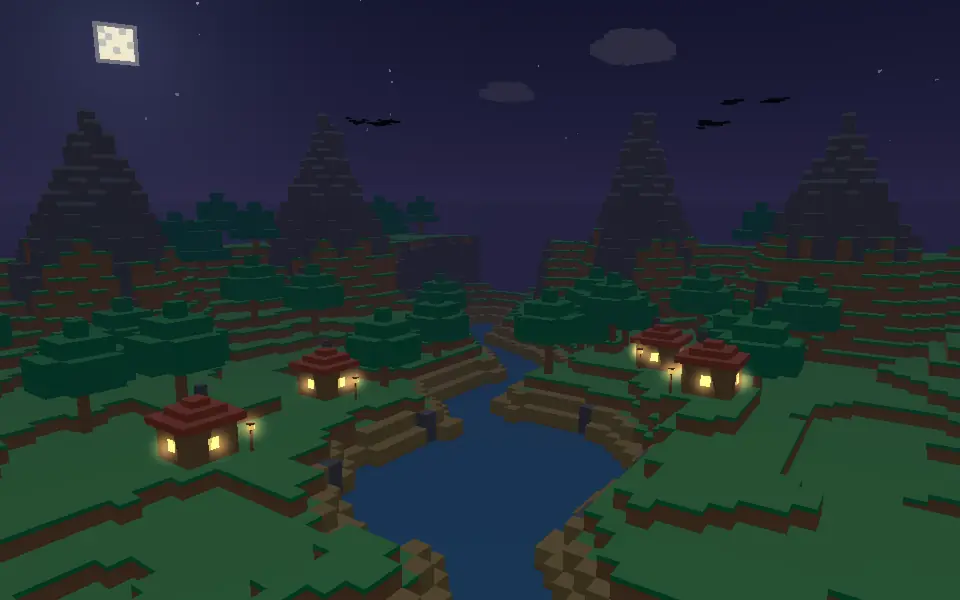
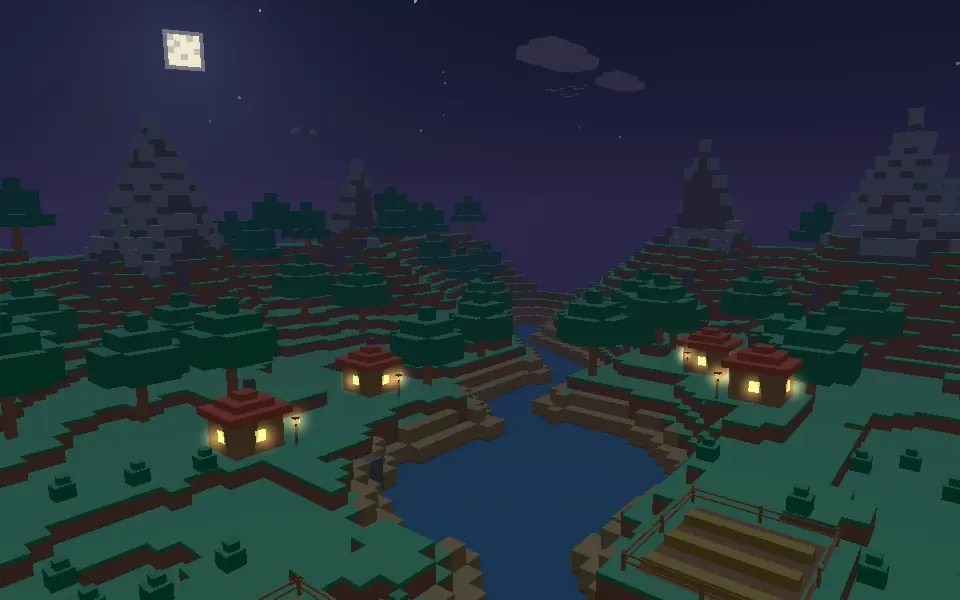
Blocks: Block Valley's day flocks in a soft blue-grey, thinner
By day the flocks read as dark grey blobs. Each bird is now a thin chevron a little darker than
the sky around it, and its wings are half as thick.

Claude-Session: https://claude.ai/code/session_01BLfTFn7RkTLtbpWjFPCzxo

diff --git a/packages/blocks/wallpapers/valley/dist/main.js b/packages/blocks/wallpapers/valley/dist/main.js
@@ -136,4 +136,4 @@ void main() {
   float r = dot(q, q);
   if (r > 1.0) discard;
   o = vec4(u_colour * exp(-r * 3.5) * (1.0 - r) * 0.6, 1.0);
-}`,lt=class{f=[];info=[];idx=[];get vertices(){return this.f.length/3}quad(e,t,r,n){let o=this.vertices;this.f.push(...e);for(let a=0;a<4;a++)this.info.push(t,r,j(Math.round(n),0,255),0);this.idx.push(o,o+1,o+2,o,o+2,o+3)}box(e,t,r,n,o,a,i,u=o,f=()=>!1){f(0)||this.quad([e,o,a,n,o,a,n,o,r,e,o,r],i,0,u),f(1)||this.quad([n,t,a,n,t,r,n,o,r,n,o,a],i,1,u),f(2)||this.quad([e,t,r,e,t,a,e,o,a,e,o,r],i,2,u),f(3)||this.quad([e,t,a,n,t,a,n,o,a,e,o,a],i,3,u),f(4)||this.quad([n,t,r,e,t,r,e,o,r,n,o,r],i,4,u),f(5)||this.quad([e,t,r,n,t,r,n,t,a,e,t,a],i,5,u)}pack(){let e=this.vertices,t=new ArrayBuffer(e*Q*4),r=new Float32Array(t),n=new Uint8Array(t);for(let o=0;o<e;o++){r[o*Q]=this.f[o*3],r[o*Q+1]=this.f[o*3+1],r[o*Q+2]=this.f[o*3+2];for(let a=0;a<4;a++)n[o*Q*4+12+a]=this.info[o*4+a]}return t}};function Tt(s,e){let t=[],r=s?[[2,-2],[1,-1],[1,0],[0,1]]:[[2,-1],[2,0],[1,1],[0,2]];for(let[n,o]of r)for(let a=-n;a<=n;a++)for(let i=-n;i<=n;i++)n>=2&&Math.abs(a)===n&&Math.abs(i)===n||t.push([a,e+o,i]);return t}function Re(s,e=!1){let t=Ut(700+s),r=e?4:7+Math.floor(t()*6),n=e?3:4+Math.floor(t()*4),o=[];for(let a=0;a<n;a++)for(let i=0;i<r;i++){let u=((i+.5-r/2)/(r/2))**2+((a+.5-n/2)/(n/2))**2;u>1.05+t()*.3||(o.push([i-r/2,0,a-n/2]),u<.45+t()*.2&&o.push([i-r/2,1,a-n/2]))}return o}var dt=class{constructor(e,t){this.canvas=e;let r=e.getContext("webgl2",{antialias:!1,alpha:!1,depth:!1,powerPreference:"low-power"});if(!r)throw new Error("WebGL2 unavailable");this.gl=r,e.addEventListener("webglcontextlost",n=>{n.preventDefault(),this.lost=!0,t()}),this.landProg=Lt(r,xe,ve),this.skyProg=Lt(r,Me,we),this.glowProg=Lt(r,ye,_e);for(let n of["u_vp","u_offset","u_scale","u_cols","u_eye","u_fog","u_fogDistance","u_time","u_light","u_glint"])this.u[n]=r.getUniformLocation(this.landProg,n);for(let n of["u_vp","u_size","u_colour"])this.g[n]=r.getUniformLocation(this.glowProg,n);for(let n of["u_forward","u_right","u_up","u_tan","u_zenith","u_horizon","u_fog","u_sun","u_disc","u_glow","u_glowAlpha","u_stars"])this.s[n]=r.getUniformLocation(this.skyProg,n);this.skyVao=r.createVertexArray(),this.dyn=this.drawn(new ArrayBuffer(0),new Uint32Array(0),r.DYNAMIC_DRAW),this.fbo=r.createFramebuffer(),this.colour=r.createRenderbuffer(),this.depth=r.createRenderbuffer()}canvas;gl;lost=!1;land=null;glows=null;glowProg;g={};clouds=null;dyn;landProg;skyProg;skyVao;u={};s={};fbo;colour;depth;size={w:0,h:0,W:0,H:0};palette=null;cols=new Float32Array(it*9);drawn(e,t,r){let n=this.gl,o=n.createVertexArray();n.bindVertexArray(o);let a=n.createBuffer();n.bindBuffer(n.ARRAY_BUFFER,a),n.bufferData(n.ARRAY_BUFFER,e,r),n.enableVertexAttribArray(0),n.vertexAttribPointer(0,3,n.FLOAT,!1,Q*4,0),n.enableVertexAttribArray(1),n.vertexAttribIPointer(1,4,n.UNSIGNED_BYTE,Q*4,12);let i=n.createBuffer();return n.bindBuffer(n.ELEMENT_ARRAY_BUFFER,i),n.bufferData(n.ELEMENT_ARRAY_BUFFER,t,r),n.bindVertexArray(null),{vao:o,vbo:a,ibo:i,count:t.length}}build(e){let t=new lt,r=[],n=[],o=(m,l)=>O(m,l)?e.height[S(m,l)]:-1,a=new Map;for(let m of e.trees){let l=Math.floor(m.j/T)*64+Math.floor(m.i/T);a.set(l,[...a.get(l)??[],m])}for(let m=0;m<E/T;m++)for(let l=0;l<E/T;l++){let b=t.idx.length,g=1/0,v=0;for(let c=m*T;c<(m+1)*T;c++)for(let p=l*T;p<(l+1)*T;p++){let M=o(p,c),y=e.top[S(p,c)];g=Math.min(g,M),v=Math.max(v,M+8),t.quad([p,M,c+1,p+1,M,c+1,p+1,M,c,p,M,c],y,0,M);let k=e.water[S(p,c)];k&&t.quad([p,k-.12,c+1,p+1,k-.12,c+1,p+1,k-.12,c,p,k-.12,c],x.Water,0,k);let R=[[1,0,1,[p+1,0,c+1,p+1,0,c,p+1,1,c,p+1,1,c+1]],[-1,0,2,[p,0,c,p,0,c+1,p,1,c+1,p,1,c]],[0,1,3,[p,0,c+1,p+1,0,c+1,p+1,1,c+1,p,1,c+1]],[0,-1,4,[p+1,0,c,p,0,c,p,1,c,p+1,1,c]]],F=(C,V,B)=>{let _=C.slice();for(let w=1;w<12;w+=3)_[w]=_[w]===0?V:B;return _};for(let[C,V,B,_]of R){let w=o(p+C,c+V);if(w<0)continue;w<M&&t.quad(F(_,w,M),y,B,M);let A=e.water[S(p+C,c+V)];if(k&&A<k){let z=Math.max(w,A?A-.12:0,M);z<k-.12&&t.quad(F(_,z,k-.12),x.Water,B,k)}}}for(let c of a.get(m*64+l)??[]){let p=o(c.i,c.j),M=Tt(c.pine,c.trunk),y=new Set(M.map(([R,F,C])=>`${R},${F},${C}`));for(let R=0;R<c.trunk;R++)y.add(`0,${R},0`);let k=(R,F,C)=>V=>{let[B,_,w]=[[0,1,0],[1,0,0],[-1,0,0],[0,0,1],[0,0,-1],[0,-1,0]][V];return y.has(`${R+B},${F+_},${C+w}`)};for(let R=0;R<c.trunk;R++)t.box(c.i+.25,p+R,c.j+.25,c.i+.75,p+R+1,c.j+.75,x.Wood,p+R+1,F=>F===5||F===0&&y.has(`0,${R+1},0`));for(let[R,F,C]of M)t.box(c.i+R,p+F,c.j+C,c.i+R+1,p+F+1,c.j+C+1,c.pine?x.Pine:x.Leaves,p+F+1,k(R,F,C));v=Math.max(v,p+c.trunk+3)}for(let c of e.bushes){if(Math.floor(c.i/T)!==l||Math.floor(c.j/T)!==m)continue;let p=o(c.i,c.j);t.box(c.i+.05,p,c.j+.05,c.i+.95,p+.7,c.j+.95,x.Leaves),t.box(c.i+.3,p+.7,c.j+.25,c.i+.8,p+1.05,c.j+.75,x.Leaves)}for(let c of e.fields)Math.floor(c.i/T)!==l||Math.floor(c.j/T)!==m||(Ae(t,c),v=Math.max(v,c.floor+2));for(let c of e.houses)Math.floor(c.i/T)!==l||Math.floor(c.j/T)!==m||(Se(t,c,r),v=Math.max(v,c.floor+4));for(let c of e.lanterns){if(Math.floor(c.i/T)!==l||Math.floor(c.j/T)!==m)continue;let[p,M,y]=[c.i+.5,c.j+.5,c.y];t.box(p-.06,y,M-.06,p+.06,y+1.3,M+.06,x.Wood),t.box(p-.15,y+1.3,M-.15,p+.15,y+1.6,M+.15,x.Window),t.box(p-.18,y+1.6,M-.18,p+.18,y+1.68,M+.18,x.Wood),r.push(p,y+1.45,M)}n.push({start:b,count:t.idx.length-b,min:[l*T-3,g-1,m*T-3],max:[(l+1)*T+3,v+1,(m+1)*T+3]})}this.land&&this.free(this.land.drawn),this.land={drawn:this.drawn(t.pack(),new Uint32Array(t.idx),this.gl.STATIC_DRAW),chunks:n};let i=this.gl;this.glows&&i.deleteBuffer(this.glows.vbo);let u=i.createVertexArray();i.bindVertexArray(u);let f=i.createBuffer();i.bindBuffer(i.ARRAY_BUFFER,f),i.bufferData(i.ARRAY_BUFFER,new Float32Array(r),i.STATIC_DRAW),i.enableVertexAttribArray(0),i.vertexAttribPointer(0,3,i.FLOAT,!1,12,0),i.bindVertexArray(null),this.glows={vao:u,vbo:f,count:r.length/3};let h=new lt,d=[];for(let m=0;m<5;m++){let l=h.idx.length,b=Re(m,m===4),g=new Set(b.map(([v,c,p])=>`${v},${c},${p}`));for(let[v,c,p]of b)h.box(v,c,p,v+1,c+1,p+1,x.Cloud,0,M=>{let[y,k,R]=[[0,1,0],[1,0,0],[-1,0,0],[0,0,1],[0,0,-1],[0,-1,0]][M];return g.has(`${v+y},${c+k},${p+R}`)});d.push({start:l,count:h.idx.length-l})}this.clouds&&this.free(this.clouds.drawn),this.clouds={drawn:this.drawn(h.pack(),new Uint32Array(h.idx),this.gl.STATIC_DRAW),shapes:d}}free(e){let t=this.gl;t.deleteBuffer(e.vbo),t.deleteBuffer(e.ibo),t.deleteVertexArray(e.vao)}setPalette(e){this.palette=e,e.mats.forEach((t,r)=>{[t.top,t.left,t.right].forEach((n,o)=>{let a=Y(n);this.cols.set([a[0]/255,a[1]/255,a[2]/255],(r*3+o)*3)})})}resize(e,t,r,n){let o=this.gl;this.canvas.width=e,this.canvas.height=t;let a=Math.max(1,Math.round(r/Zt)),i=Math.max(1,Math.round(n/Zt));this.size={w:a,h:i,W:e,H:t},o.bindRenderbuffer(o.RENDERBUFFER,this.colour),o.renderbufferStorage(o.RENDERBUFFER,o.RGBA8,a,i),o.bindRenderbuffer(o.RENDERBUFFER,this.depth),o.renderbufferStorage(o.RENDERBUFFER,o.DEPTH_COMPONENT24,a,i),o.bindFramebuffer(o.FRAMEBUFFER,this.fbo),o.framebufferRenderbuffer(o.FRAMEBUFFER,o.COLOR_ATTACHMENT0,o.RENDERBUFFER,this.colour),o.framebufferRenderbuffer(o.FRAMEBUFFER,o.DEPTH_ATTACHMENT,o.RENDERBUFFER,this.depth),o.bindFramebuffer(o.FRAMEBUFFER,null)}draw(e){let t=this.gl,r=this.palette;if(this.lost||!r||!this.land||!this.clouds||t.isContextLost())return;let n=e.camera,o=Pe(ke(n.fovY,n.aspect,.3,320),Fe(n.eye,n.forward,n.up,n.right));t.bindFramebuffer(t.FRAMEBUFFER,this.fbo),t.viewport(0,0,this.size.w,this.size.h),t.disable(t.DEPTH_TEST),t.depthMask(!0),t.useProgram(this.skyProg);let a=Math.tan(n.fovY/2),i=this.s;t.uniform3fv(i.u_forward,n.forward),t.uniform3fv(i.u_right,n.right),t.uniform3fv(i.u_up,n.up),t.uniform2f(i.u_tan,a*n.aspect,a),t.uniform3fv(i.u_zenith,J(r.zenith)),t.uniform3fv(i.u_horizon,J(r.horizon)),t.uniform3fv(i.u_fog,J(r.fog));let u=Ee(r.sun.dir);t.uniform3fv(i.u_sun,u),t.uniform3fv(i.u_disc,J(r.sun.disc)),t.uniform3fv(i.u_glow,J(r.sun.glow)),t.uniform1f(i.u_glowAlpha,r.sun.alpha),t.uniform1f(i.u_stars,r.stars?1:0),t.bindVertexArray(this.skyVao),t.drawArrays(t.TRIANGLES,0,3),t.enable(t.DEPTH_TEST),t.enable(t.CULL_FACE),t.clear(t.DEPTH_BUFFER_BIT),t.useProgram(this.landProg);let f=this.u;t.uniformMatrix4fv(f.u_vp,!1,o),t.uniform3fv(f.u_cols,this.cols),t.uniform3fv(f.u_eye,n.eye),t.uniform3fv(f.u_fog,J(r.fog)),t.uniform1f(f.u_fogDistance,r.fogDistance),t.uniform1f(f.u_time,e.time),t.uniform3fv(f.u_light,u),t.uniform3fv(f.u_glint,J(r.glint)),t.uniform3f(f.u_offset,0,0,0),t.uniform1f(f.u_scale,1);let h=Le(o);t.bindVertexArray(this.land.drawn.vao);for(let d of this.land.chunks)d.count&&Te(h,d.min,d.max)&&t.drawElements(t.TRIANGLES,d.count,t.UNSIGNED_INT,d.start*4);t.bindVertexArray(this.clouds.drawn.vao);for(let d of e.clouds){let m=this.clouds.shapes[d.puff>=0?4:d.shape%4],l=d.puff>=0?j(d.puff/.5,0,1)*j((9-d.puff)/1.5,0,1):1;l<=.01||(t.uniform3f(f.u_offset,d.x,d.y,d.z),t.uniform1f(f.u_scale,l),t.drawElements(t.TRIANGLES,m.count,t.UNSIGNED_INT,m.start*4))}t.uniform3f(f.u_offset,0,0,0),t.uniform1f(f.u_scale,1),this.drawMoving(e),t.disable(t.CULL_FACE),r.lights&&this.glows?.count&&(t.useProgram(this.glowProg),t.uniformMatrix4fv(this.g.u_vp,!1,o),t.uniform1f(this.g.u_size,this.size.h/2/a*2.6),t.uniform3fv(this.g.u_colour,J(r.lights)),t.enable(t.BLEND),t.blendFunc(t.ONE,t.ONE),t.depthMask(!1),t.bindVertexArray(this.glows.vao),t.drawArrays(t.POINTS,0,this.glows.count),t.depthMask(!0),t.disable(t.BLEND)),t.bindFramebuffer(t.READ_FRAMEBUFFER,this.fbo),t.bindFramebuffer(t.DRAW_FRAMEBUFFER,null),t.blitFramebuffer(0,0,this.size.w,this.size.h,0,0,this.size.W,this.size.H,t.COLOR_BUFFER_BIT,t.NEAREST),t.bindFramebuffer(t.FRAMEBUFFER,null)}drawMoving(e){let t=this.gl,r=new lt;for(let n of e.birds){let o=e.birdAt(n),a=Math.cos(o.heading),i=Math.sin(o.heading),u=-i,f=a,h=(d,m,l,b,g,v)=>{let c=o.x+a*d+u*m,p=o.z+i*d+f*m,M=o.y+l,y=Math.abs(a)*b+Math.abs(u)*g,k=Math.abs(i)*b+Math.abs(f)*g;r.box(c-y,M-v,p-k,c+y,M+v,p+k,x.Bird)};for(let d of[-1,1])h(-.04,d*.16,.05+o.wing*.03,.05,.16,.025),h(-.1,d*.44,.15+o.wing*.1,.04,.14,.022)}for(let n of e.drops)r.box(n.i,n.y,n.j,n.i+1,n.y+1,n.j+1,n.mat,n.y+1);r.idx.length&&(t.bindVertexArray(this.dyn.vao),t.bindBuffer(t.ARRAY_BUFFER,this.dyn.vbo),t.bufferData(t.ARRAY_BUFFER,r.pack(),t.DYNAMIC_DRAW),t.bindBuffer(t.ELEMENT_ARRAY_BUFFER,this.dyn.ibo),t.bufferData(t.ELEMENT_ARRAY_BUFFER,new Uint32Array(r.idx),t.DYNAMIC_DRAW),t.drawElements(t.TRIANGLES,r.idx.length,t.UNSIGNED_INT,0))}};function Ae(s,e){let{i:t,j:r,w:n,d:o,floor:a}=e;if(e.rowsAlongX)for(let l=0;l<o;l+=2)s.box(t+.15,a,r+l+.2,t+n-.15,a+.45,r+l+.8,x.Crop);else for(let l=0;l<n;l+=2)s.box(t+l+.2,a,r+.15,t+l+.8,a+.45,r+o-.15,x.Crop);let i=t-.3,u=t+n+.3,f=r-.3,h=r+o+.3,d=(l,b)=>s.box(l-.06,a,b-.06,l+.06,a+.75,b+.06,x.Wood),m=(l,b,g,v)=>{for(let c of[.32,.6])s.box(Math.min(l,g)-.03,a+c,Math.min(b,v)-.03,Math.max(l,g)+.03,a+c+.06,Math.max(b,v)+.03,x.Wood)};for(let l of[i,t+n/2,u])d(l,f),d(l,h);for(let l of[f,r+o/2,h])d(i,l),d(u,l);m(i,f,u,f),m(i,h,t+n/2-.6,h),m(t+n/2+.6,h,u,h),m(i,f,i,h),m(u,f,u,h)}function Se(s,e,t){let{i:r,j:n,w:o,d:a,floor:i}=e;s.box(r,i,n,r+o,i+2,n+a,x.Plank);let u=r+o/2,f=n+a/2;for(let[h,d,m,l,b,g]of[[r+o,f-.3,r+o+.06,f+.3,r+o+.3,f],[r-.06,f-.3,r,f+.3,r-.3,f],[u-.3,n+a,u+.3,n+a+.06,u,n+a+.3],[u-.3,n-.06,u+.3,n,u,n-.3]])s.box(h,i+.7,d,m,i+1.35,l,x.Window),t.push(b,i+1.02,g);s.box(r-.4,i+2,n-.4,r+o+.4,i+2.45,n+a+.4,x.Roof),s.box(r+.3,i+2.45,n+.3,r+o-.3,i+2.9,n+a-.3,x.Roof),s.box(r+.95,i+2.9,n+.95,r+o-.95,i+3.3,n+a-.95,x.Roof),s.box(r+o-.9,i+2.4,n+.4,r+o-.4,i+3.7,n+.9,x.Stone)}function Lt(s,e,t){let r=s.createProgram();for(let[n,o]of[[s.VERTEX_SHADER,e],[s.FRAGMENT_SHADER,t]]){let a=s.createShader(n);if(s.shaderSource(a,o),s.compileShader(a),!s.getShaderParameter(a,s.COMPILE_STATUS)&&!s.isContextLost())throw new Error(`shader: ${s.getShaderInfoLog(a)}`);s.attachShader(r,a)}if(s.linkProgram(r),!s.getProgramParameter(r,s.LINK_STATUS)&&!s.isContextLost())throw new Error(`program: ${s.getProgramInfoLog(r)}`);return r}var J=s=>{let e=Y(s);return[e[0]/255,e[1]/255,e[2]/255]},Ee=s=>{let e=Math.hypot(s[0],s[1],s[2])||1;return[s[0]/e,s[1]/e,s[2]/e]};function ke(s,e,t,r){let n=1/Math.tan(s/2),o=new Float32Array(16);return o[0]=n/e,o[5]=n,o[10]=(r+t)/(t-r),o[11]=-1,o[14]=2*r*t/(t-r),o}function Fe(s,e,t,r){let n=new Float32Array(16);return n[0]=r[0],n[4]=r[1],n[8]=r[2],n[12]=-(r[0]*s[0]+r[1]*s[1]+r[2]*s[2]),n[1]=t[0],n[5]=t[1],n[9]=t[2],n[13]=-(t[0]*s[0]+t[1]*s[1]+t[2]*s[2]),n[2]=-e[0],n[6]=-e[1],n[10]=-e[2],n[14]=e[0]*s[0]+e[1]*s[1]+e[2]*s[2],n[15]=1,n}function Pe(s,e){let t=new Float32Array(16);for(let r=0;r<4;r++)for(let n=0;n<4;n++){let o=0;for(let a=0;a<4;a++)o+=s[a*4+n]*e[r*4+a];t[r*4+n]=o}return t}function Le(s){let e=i=>[s[i],s[4+i],s[8+i],s[12+i]],[t,r,n,o]=[e(0),e(1),e(2),e(3)],a=(i,u,f)=>i.map((h,d)=>h+f*u[d]);return[a(o,t,1),a(o,t,-1),a(o,r,1),a(o,r,-1),a(o,n,1),a(o,n,-1)]}function Te(s,e,t){for(let[r,n,o,a]of s){let i=r>0?t[0]:e[0],u=n>0?t[1]:e[1],f=o>0?t[2]:e[2];if(r*i+n*u+o*f+a<0)return!1}return!0}var Ce=s=>({top:Y(s.top),left:Y(s.left),right:Y(s.right)}),pt=class{constructor(e){this.canvas=e;let t=e.getContext("2d",{alpha:!1});if(!t)throw new Error("2D canvas unavailable");this.g=t}canvas;g;size={w:0,h:0,dpr:1};palette=null;drawnFor="";resize(e,t,r){this.size={w:e,h:t,dpr:r},this.canvas.width=Math.round(e*r),this.canvas.height=Math.round(t*r),this.drawnFor=""}setPalette(e){e!==this.palette&&(this.drawnFor=""),this.palette=e}draw(e){let t=this.palette,{w:r,h:n,dpr:o}=this.size;if(!t||!r)return;let a=`${r}x${n}@${o}`;if(a===this.drawnFor)return;this.drawnFor=a;let i=this.g,u=this.canvas.width,f=this.canvas.height;i.setTransform(1,0,0,1,0,0);let h=i.createLinearGradient(0,0,0,f);h.addColorStop(0,bt(Y(t.zenith))),h.addColorStop(.7,bt(Y(t.horizon))),h.addColorStop(1,bt(Y(t.fog))),i.fillStyle=h,i.fillRect(0,0,u,f);let d=Math.max(2,2*Math.round(Math.min(r*.94/(2*E),n*.6/E)*o/2)),m={S:d,HZ:d,ox:Math.round(u/2),oy:Math.round(f*.58-E*d/2)},l=t.mats.map(Ce),b=(_,w=1)=>St(d,d,[0,0,0,1,1,w],A=>A.box(0,0,0,1,1,w,_)),g=[];g[x.Grass]=b(Pt(l[x.Grass],l[x.Dirt],1)),g[x.Sand]=b(G(l[x.Sand],2)),g[x.Stone]=b(G(l[x.Stone],3,.28)),g[x.Snow]=b(Pt(l[x.Snow],l[x.Stone],4));let v=b(G(l[x.Dirt],5)),c=b(G(l[x.Stone],6,.28)),p=b(qt(l[x.Water],7),.85),M=St(d,d,[0,0,0,1,1,1],_=>_.box(.25,.25,0,.75,.75,1,Xt(l[x.Wood],8))),y=b(G(l[x.Leaves],9,.3)),k=b(G(l[x.Pine],10,.3)),R=b(G(l[x.Plank],11,.1)),F=b(G(l[x.Roof],12,.1)),C=new Map;for(let _ of e.land.houses)for(let w=0;w<_.d;w++)for(let A=0;A<_.w;A++)C.set(S(_.i+A,_.j+w),_);let V=(_,w)=>O(_,w)?e.land.height[S(_,w)]:-1,B=new Map(e.land.trees.map(_=>[S(_.i,_.j),_]));for(let _=0;_<E*2-1;_++)for(let w=Math.max(0,_-E+1);w<=Math.min(_,E-1);w++){let A=_-w,z=V(w,A),tt=e.land.top[S(w,A)],xt=Math.min(z-1,Math.max(0,Math.min(V(w+1,A),V(w,A+1))-1));for(let D=Math.max(0,xt);D<z;D++){let W=D===z-1?g[tt]??g[x.Grass]:z-D>3||tt===x.Stone||tt===x.Snow?c:v;i.drawImage(W.canvas,Math.round(H(m,w,A)+W.dx),Math.round(q(m,w,A,D)+W.dy))}let Dt=e.land.water[S(w,A)];if(Dt&&i.drawImage(p.canvas,Math.round(H(m,w,A)+p.dx),Math.round(q(m,w,A,Dt-1)+p.dy)),C.has(S(w,A)))for(let[D,W]of[[z,R],[z+1,R],[z+2,F]])i.drawImage(W.canvas,Math.round(H(m,w,A)+W.dx),Math.round(q(m,w,A,D)+W.dy));let ot=B.get(S(w,A));if(!ot)continue;for(let D=0;D<ot.trunk;D++)i.drawImage(M.canvas,Math.round(H(m,w,A)+M.dx),Math.round(q(m,w,A,z+D)+M.dy));let Jt=Tt(ot.pine,ot.trunk).sort((D,W)=>D[0]+D[2]-(W[0]+W[2])||D[1]-W[1]);for(let[D,W,It]of Jt){let vt=ot.pine?k:y;i.drawImage(vt.canvas,Math.round(H(m,w+D,A+It)+vt.dx),Math.round(q(m,w+D,A+It,z+W)+vt.dy))}}}};var Z=(s,e,t)=>({top:s,left:e,right:t}),P=(s,e,t,r)=>({top:[s,e,t],left:[s-r,e,t],right:[s-r*2,e*.92,t+8]});function Kt(s){let e=[];for(let[t,r]of Object.entries(x))e[r]=s[t];if(e.length!==it||e.some(t=>!t))throw new Error("every material needs its colours");return e}var Ct={light:{mats:Kt({Grass:P(.9,.12,132,.045),Dirt:P(.88,.05,68,.035),Stone:P(.88,.012,255,.035),Sand:P(.93,.05,92,.035),Snow:P(.985,.008,250,.035),Water:P(.86,.07,222,.025),Wood:P(.88,.045,62,.035),Leaves:P(.89,.12,145,.04),Pine:P(.87,.09,170,.03),Cloud:P(.99,.004,240,.02),Bird:P(.64,.025,245,.02),Plank:P(.92,.05,75,.035),Roof:P(.88,.09,30,.035),Window:P(.9,.04,230,.02),Soil:P(.87,.05,60,.03),Crop:P(.93,.11,92,.035)}),zenith:[.78,.09,240],horizon:[.93,.035,225],fog:[.93,.035,225],fogDistance:120,sun:{dir:[.62,.24,-.72],disc:[.99,.05,95],glow:[.995,.025,95],alpha:.55},stars:!1,glint:[.99,.02,95],lights:null},dark:{mats:Kt({Grass:Z([.42,.06,170],[.34,.065,155],[.28,.055,160]),Dirt:Z([.37,.035,60],[.31,.035,55],[.25,.03,50]),Stone:Z([.35,.012,255],[.29,.012,265],[.24,.012,270]),Sand:Z([.41,.03,95],[.35,.035,85],[.29,.03,80]),Snow:Z([.43,.025,245],[.38,.025,250],[.32,.025,260]),Water:P(.33,.065,250,.035),Wood:P(.36,.04,55,.045),Leaves:Z([.4,.06,172],[.32,.065,158],[.26,.055,165]),Pine:Z([.38,.05,185],[.31,.055,175],[.25,.045,180]),Cloud:P(.38,.03,275,.03),Bird:P(.38,.02,270,.02),Plank:P(.38,.04,70,.045),Roof:P(.36,.07,28,.045),Window:P(.86,.13,80,.02),Soil:Z([.34,.03,55],[.28,.03,50],[.23,.025,45]),Crop:Z([.42,.05,100],[.35,.05,95],[.29,.045,90])}),zenith:[.15,.045,268],horizon:[.29,.06,288],fog:[.29,.06,288],fogDistance:105,sun:{dir:[.42,.2,-.86],disc:[.93,.035,95],glow:[.55,.06,270],alpha:.35},stars:!0,glint:[.88,.03,250],lights:[.8,.12,70]}};var gt=class{constructor(e){this.makeCanvas=e;this.canvas=e();try{this.gl=new dt(this.canvas,()=>this.fallBack()),this.gl.setPalette(this.palette)}catch{this.fallBack()}}makeCanvas;canvas;gl=null;still=null;built=!1;size={w:0,h:0,dpr:1};palette=Ct.dark;last=null;fallBack(){this.still||(this.gl=null,this.canvas.remove(),this.canvas=this.makeCanvas(),this.still=new pt(this.canvas),this.still.setPalette(this.palette),this.size.w&&this.still.resize(this.size.w,this.size.h,this.size.dpr),this.last&&this.still.draw(this.last))}get mode(){return this.gl&&!this.gl.lost?"gl":"still"}resize(e,t,r){this.size={w:e,h:t,dpr:r},this.gl?this.gl.resize(Math.round(e*r),Math.round(t*r),e,t):this.still?.resize(e,t,r)}setLook(e){this.palette=Ct[e.dark?"dark":"light"],this.gl?.setPalette(this.palette),this.still?.setPalette(this.palette)}draw(e){this.last=e,this.gl?(this.built||(this.gl.build(e.land),this.built=!0),this.gl.draw(e)):this.still?.draw(e)}};await Bt(new mt,()=>new gt(zt));
+}`,lt=class{f=[];info=[];idx=[];get vertices(){return this.f.length/3}quad(e,t,r,n){let o=this.vertices;this.f.push(...e);for(let a=0;a<4;a++)this.info.push(t,r,j(Math.round(n),0,255),0);this.idx.push(o,o+1,o+2,o,o+2,o+3)}box(e,t,r,n,o,a,i,u=o,f=()=>!1){f(0)||this.quad([e,o,a,n,o,a,n,o,r,e,o,r],i,0,u),f(1)||this.quad([n,t,a,n,t,r,n,o,r,n,o,a],i,1,u),f(2)||this.quad([e,t,r,e,t,a,e,o,a,e,o,r],i,2,u),f(3)||this.quad([e,t,a,n,t,a,n,o,a,e,o,a],i,3,u),f(4)||this.quad([n,t,r,e,t,r,e,o,r,n,o,r],i,4,u),f(5)||this.quad([e,t,r,n,t,r,n,t,a,e,t,a],i,5,u)}pack(){let e=this.vertices,t=new ArrayBuffer(e*Q*4),r=new Float32Array(t),n=new Uint8Array(t);for(let o=0;o<e;o++){r[o*Q]=this.f[o*3],r[o*Q+1]=this.f[o*3+1],r[o*Q+2]=this.f[o*3+2];for(let a=0;a<4;a++)n[o*Q*4+12+a]=this.info[o*4+a]}return t}};function Tt(s,e){let t=[],r=s?[[2,-2],[1,-1],[1,0],[0,1]]:[[2,-1],[2,0],[1,1],[0,2]];for(let[n,o]of r)for(let a=-n;a<=n;a++)for(let i=-n;i<=n;i++)n>=2&&Math.abs(a)===n&&Math.abs(i)===n||t.push([a,e+o,i]);return t}function Re(s,e=!1){let t=Ut(700+s),r=e?4:7+Math.floor(t()*6),n=e?3:4+Math.floor(t()*4),o=[];for(let a=0;a<n;a++)for(let i=0;i<r;i++){let u=((i+.5-r/2)/(r/2))**2+((a+.5-n/2)/(n/2))**2;u>1.05+t()*.3||(o.push([i-r/2,0,a-n/2]),u<.45+t()*.2&&o.push([i-r/2,1,a-n/2]))}return o}var dt=class{constructor(e,t){this.canvas=e;let r=e.getContext("webgl2",{antialias:!1,alpha:!1,depth:!1,powerPreference:"low-power"});if(!r)throw new Error("WebGL2 unavailable");this.gl=r,e.addEventListener("webglcontextlost",n=>{n.preventDefault(),this.lost=!0,t()}),this.landProg=Lt(r,xe,ve),this.skyProg=Lt(r,Me,we),this.glowProg=Lt(r,ye,_e);for(let n of["u_vp","u_offset","u_scale","u_cols","u_eye","u_fog","u_fogDistance","u_time","u_light","u_glint"])this.u[n]=r.getUniformLocation(this.landProg,n);for(let n of["u_vp","u_size","u_colour"])this.g[n]=r.getUniformLocation(this.glowProg,n);for(let n of["u_forward","u_right","u_up","u_tan","u_zenith","u_horizon","u_fog","u_sun","u_disc","u_glow","u_glowAlpha","u_stars"])this.s[n]=r.getUniformLocation(this.skyProg,n);this.skyVao=r.createVertexArray(),this.dyn=this.drawn(new ArrayBuffer(0),new Uint32Array(0),r.DYNAMIC_DRAW),this.fbo=r.createFramebuffer(),this.colour=r.createRenderbuffer(),this.depth=r.createRenderbuffer()}canvas;gl;lost=!1;land=null;glows=null;glowProg;g={};clouds=null;dyn;landProg;skyProg;skyVao;u={};s={};fbo;colour;depth;size={w:0,h:0,W:0,H:0};palette=null;cols=new Float32Array(it*9);drawn(e,t,r){let n=this.gl,o=n.createVertexArray();n.bindVertexArray(o);let a=n.createBuffer();n.bindBuffer(n.ARRAY_BUFFER,a),n.bufferData(n.ARRAY_BUFFER,e,r),n.enableVertexAttribArray(0),n.vertexAttribPointer(0,3,n.FLOAT,!1,Q*4,0),n.enableVertexAttribArray(1),n.vertexAttribIPointer(1,4,n.UNSIGNED_BYTE,Q*4,12);let i=n.createBuffer();return n.bindBuffer(n.ELEMENT_ARRAY_BUFFER,i),n.bufferData(n.ELEMENT_ARRAY_BUFFER,t,r),n.bindVertexArray(null),{vao:o,vbo:a,ibo:i,count:t.length}}build(e){let t=new lt,r=[],n=[],o=(m,l)=>O(m,l)?e.height[S(m,l)]:-1,a=new Map;for(let m of e.trees){let l=Math.floor(m.j/T)*64+Math.floor(m.i/T);a.set(l,[...a.get(l)??[],m])}for(let m=0;m<E/T;m++)for(let l=0;l<E/T;l++){let b=t.idx.length,g=1/0,v=0;for(let c=m*T;c<(m+1)*T;c++)for(let p=l*T;p<(l+1)*T;p++){let M=o(p,c),y=e.top[S(p,c)];g=Math.min(g,M),v=Math.max(v,M+8),t.quad([p,M,c+1,p+1,M,c+1,p+1,M,c,p,M,c],y,0,M);let k=e.water[S(p,c)];k&&t.quad([p,k-.12,c+1,p+1,k-.12,c+1,p+1,k-.12,c,p,k-.12,c],x.Water,0,k);let R=[[1,0,1,[p+1,0,c+1,p+1,0,c,p+1,1,c,p+1,1,c+1]],[-1,0,2,[p,0,c,p,0,c+1,p,1,c+1,p,1,c]],[0,1,3,[p,0,c+1,p+1,0,c+1,p+1,1,c+1,p,1,c+1]],[0,-1,4,[p+1,0,c,p,0,c,p,1,c,p+1,1,c]]],F=(C,V,B)=>{let _=C.slice();for(let w=1;w<12;w+=3)_[w]=_[w]===0?V:B;return _};for(let[C,V,B,_]of R){let w=o(p+C,c+V);if(w<0)continue;w<M&&t.quad(F(_,w,M),y,B,M);let A=e.water[S(p+C,c+V)];if(k&&A<k){let z=Math.max(w,A?A-.12:0,M);z<k-.12&&t.quad(F(_,z,k-.12),x.Water,B,k)}}}for(let c of a.get(m*64+l)??[]){let p=o(c.i,c.j),M=Tt(c.pine,c.trunk),y=new Set(M.map(([R,F,C])=>`${R},${F},${C}`));for(let R=0;R<c.trunk;R++)y.add(`0,${R},0`);let k=(R,F,C)=>V=>{let[B,_,w]=[[0,1,0],[1,0,0],[-1,0,0],[0,0,1],[0,0,-1],[0,-1,0]][V];return y.has(`${R+B},${F+_},${C+w}`)};for(let R=0;R<c.trunk;R++)t.box(c.i+.25,p+R,c.j+.25,c.i+.75,p+R+1,c.j+.75,x.Wood,p+R+1,F=>F===5||F===0&&y.has(`0,${R+1},0`));for(let[R,F,C]of M)t.box(c.i+R,p+F,c.j+C,c.i+R+1,p+F+1,c.j+C+1,c.pine?x.Pine:x.Leaves,p+F+1,k(R,F,C));v=Math.max(v,p+c.trunk+3)}for(let c of e.bushes){if(Math.floor(c.i/T)!==l||Math.floor(c.j/T)!==m)continue;let p=o(c.i,c.j);t.box(c.i+.05,p,c.j+.05,c.i+.95,p+.7,c.j+.95,x.Leaves),t.box(c.i+.3,p+.7,c.j+.25,c.i+.8,p+1.05,c.j+.75,x.Leaves)}for(let c of e.fields)Math.floor(c.i/T)!==l||Math.floor(c.j/T)!==m||(Ae(t,c),v=Math.max(v,c.floor+2));for(let c of e.houses)Math.floor(c.i/T)!==l||Math.floor(c.j/T)!==m||(Se(t,c,r),v=Math.max(v,c.floor+4));for(let c of e.lanterns){if(Math.floor(c.i/T)!==l||Math.floor(c.j/T)!==m)continue;let[p,M,y]=[c.i+.5,c.j+.5,c.y];t.box(p-.06,y,M-.06,p+.06,y+1.3,M+.06,x.Wood),t.box(p-.15,y+1.3,M-.15,p+.15,y+1.6,M+.15,x.Window),t.box(p-.18,y+1.6,M-.18,p+.18,y+1.68,M+.18,x.Wood),r.push(p,y+1.45,M)}n.push({start:b,count:t.idx.length-b,min:[l*T-3,g-1,m*T-3],max:[(l+1)*T+3,v+1,(m+1)*T+3]})}this.land&&this.free(this.land.drawn),this.land={drawn:this.drawn(t.pack(),new Uint32Array(t.idx),this.gl.STATIC_DRAW),chunks:n};let i=this.gl;this.glows&&i.deleteBuffer(this.glows.vbo);let u=i.createVertexArray();i.bindVertexArray(u);let f=i.createBuffer();i.bindBuffer(i.ARRAY_BUFFER,f),i.bufferData(i.ARRAY_BUFFER,new Float32Array(r),i.STATIC_DRAW),i.enableVertexAttribArray(0),i.vertexAttribPointer(0,3,i.FLOAT,!1,12,0),i.bindVertexArray(null),this.glows={vao:u,vbo:f,count:r.length/3};let h=new lt,d=[];for(let m=0;m<5;m++){let l=h.idx.length,b=Re(m,m===4),g=new Set(b.map(([v,c,p])=>`${v},${c},${p}`));for(let[v,c,p]of b)h.box(v,c,p,v+1,c+1,p+1,x.Cloud,0,M=>{let[y,k,R]=[[0,1,0],[1,0,0],[-1,0,0],[0,0,1],[0,0,-1],[0,-1,0]][M];return g.has(`${v+y},${c+k},${p+R}`)});d.push({start:l,count:h.idx.length-l})}this.clouds&&this.free(this.clouds.drawn),this.clouds={drawn:this.drawn(h.pack(),new Uint32Array(h.idx),this.gl.STATIC_DRAW),shapes:d}}free(e){let t=this.gl;t.deleteBuffer(e.vbo),t.deleteBuffer(e.ibo),t.deleteVertexArray(e.vao)}setPalette(e){this.palette=e,e.mats.forEach((t,r)=>{[t.top,t.left,t.right].forEach((n,o)=>{let a=Y(n);this.cols.set([a[0]/255,a[1]/255,a[2]/255],(r*3+o)*3)})})}resize(e,t,r,n){let o=this.gl;this.canvas.width=e,this.canvas.height=t;let a=Math.max(1,Math.round(r/Zt)),i=Math.max(1,Math.round(n/Zt));this.size={w:a,h:i,W:e,H:t},o.bindRenderbuffer(o.RENDERBUFFER,this.colour),o.renderbufferStorage(o.RENDERBUFFER,o.RGBA8,a,i),o.bindRenderbuffer(o.RENDERBUFFER,this.depth),o.renderbufferStorage(o.RENDERBUFFER,o.DEPTH_COMPONENT24,a,i),o.bindFramebuffer(o.FRAMEBUFFER,this.fbo),o.framebufferRenderbuffer(o.FRAMEBUFFER,o.COLOR_ATTACHMENT0,o.RENDERBUFFER,this.colour),o.framebufferRenderbuffer(o.FRAMEBUFFER,o.DEPTH_ATTACHMENT,o.RENDERBUFFER,this.depth),o.bindFramebuffer(o.FRAMEBUFFER,null)}draw(e){let t=this.gl,r=this.palette;if(this.lost||!r||!this.land||!this.clouds||t.isContextLost())return;let n=e.camera,o=Pe(ke(n.fovY,n.aspect,.3,320),Fe(n.eye,n.forward,n.up,n.right));t.bindFramebuffer(t.FRAMEBUFFER,this.fbo),t.viewport(0,0,this.size.w,this.size.h),t.disable(t.DEPTH_TEST),t.depthMask(!0),t.useProgram(this.skyProg);let a=Math.tan(n.fovY/2),i=this.s;t.uniform3fv(i.u_forward,n.forward),t.uniform3fv(i.u_right,n.right),t.uniform3fv(i.u_up,n.up),t.uniform2f(i.u_tan,a*n.aspect,a),t.uniform3fv(i.u_zenith,J(r.zenith)),t.uniform3fv(i.u_horizon,J(r.horizon)),t.uniform3fv(i.u_fog,J(r.fog));let u=Ee(r.sun.dir);t.uniform3fv(i.u_sun,u),t.uniform3fv(i.u_disc,J(r.sun.disc)),t.uniform3fv(i.u_glow,J(r.sun.glow)),t.uniform1f(i.u_glowAlpha,r.sun.alpha),t.uniform1f(i.u_stars,r.stars?1:0),t.bindVertexArray(this.skyVao),t.drawArrays(t.TRIANGLES,0,3),t.enable(t.DEPTH_TEST),t.enable(t.CULL_FACE),t.clear(t.DEPTH_BUFFER_BIT),t.useProgram(this.landProg);let f=this.u;t.uniformMatrix4fv(f.u_vp,!1,o),t.uniform3fv(f.u_cols,this.cols),t.uniform3fv(f.u_eye,n.eye),t.uniform3fv(f.u_fog,J(r.fog)),t.uniform1f(f.u_fogDistance,r.fogDistance),t.uniform1f(f.u_time,e.time),t.uniform3fv(f.u_light,u),t.uniform3fv(f.u_glint,J(r.glint)),t.uniform3f(f.u_offset,0,0,0),t.uniform1f(f.u_scale,1);let h=Le(o);t.bindVertexArray(this.land.drawn.vao);for(let d of this.land.chunks)d.count&&Te(h,d.min,d.max)&&t.drawElements(t.TRIANGLES,d.count,t.UNSIGNED_INT,d.start*4);t.bindVertexArray(this.clouds.drawn.vao);for(let d of e.clouds){let m=this.clouds.shapes[d.puff>=0?4:d.shape%4],l=d.puff>=0?j(d.puff/.5,0,1)*j((9-d.puff)/1.5,0,1):1;l<=.01||(t.uniform3f(f.u_offset,d.x,d.y,d.z),t.uniform1f(f.u_scale,l),t.drawElements(t.TRIANGLES,m.count,t.UNSIGNED_INT,m.start*4))}t.uniform3f(f.u_offset,0,0,0),t.uniform1f(f.u_scale,1),this.drawMoving(e),t.disable(t.CULL_FACE),r.lights&&this.glows?.count&&(t.useProgram(this.glowProg),t.uniformMatrix4fv(this.g.u_vp,!1,o),t.uniform1f(this.g.u_size,this.size.h/2/a*2.6),t.uniform3fv(this.g.u_colour,J(r.lights)),t.enable(t.BLEND),t.blendFunc(t.ONE,t.ONE),t.depthMask(!1),t.bindVertexArray(this.glows.vao),t.drawArrays(t.POINTS,0,this.glows.count),t.depthMask(!0),t.disable(t.BLEND)),t.bindFramebuffer(t.READ_FRAMEBUFFER,this.fbo),t.bindFramebuffer(t.DRAW_FRAMEBUFFER,null),t.blitFramebuffer(0,0,this.size.w,this.size.h,0,0,this.size.W,this.size.H,t.COLOR_BUFFER_BIT,t.NEAREST),t.bindFramebuffer(t.FRAMEBUFFER,null)}drawMoving(e){let t=this.gl,r=new lt;for(let n of e.birds){let o=e.birdAt(n),a=Math.cos(o.heading),i=Math.sin(o.heading),u=-i,f=a,h=(d,m,l,b,g,v)=>{let c=o.x+a*d+u*m,p=o.z+i*d+f*m,M=o.y+l,y=Math.abs(a)*b+Math.abs(u)*g,k=Math.abs(i)*b+Math.abs(f)*g;r.box(c-y,M-v,p-k,c+y,M+v,p+k,x.Bird)};for(let d of[-1,1])h(-.04,d*.16,.05+o.wing*.03,.035,.16,.014),h(-.1,d*.44,.15+o.wing*.1,.028,.14,.012)}for(let n of e.drops)r.box(n.i,n.y,n.j,n.i+1,n.y+1,n.j+1,n.mat,n.y+1);r.idx.length&&(t.bindVertexArray(this.dyn.vao),t.bindBuffer(t.ARRAY_BUFFER,this.dyn.vbo),t.bufferData(t.ARRAY_BUFFER,r.pack(),t.DYNAMIC_DRAW),t.bindBuffer(t.ELEMENT_ARRAY_BUFFER,this.dyn.ibo),t.bufferData(t.ELEMENT_ARRAY_BUFFER,new Uint32Array(r.idx),t.DYNAMIC_DRAW),t.drawElements(t.TRIANGLES,r.idx.length,t.UNSIGNED_INT,0))}};function Ae(s,e){let{i:t,j:r,w:n,d:o,floor:a}=e;if(e.rowsAlongX)for(let l=0;l<o;l+=2)s.box(t+.15,a,r+l+.2,t+n-.15,a+.45,r+l+.8,x.Crop);else for(let l=0;l<n;l+=2)s.box(t+l+.2,a,r+.15,t+l+.8,a+.45,r+o-.15,x.Crop);let i=t-.3,u=t+n+.3,f=r-.3,h=r+o+.3,d=(l,b)=>s.box(l-.06,a,b-.06,l+.06,a+.75,b+.06,x.Wood),m=(l,b,g,v)=>{for(let c of[.32,.6])s.box(Math.min(l,g)-.03,a+c,Math.min(b,v)-.03,Math.max(l,g)+.03,a+c+.06,Math.max(b,v)+.03,x.Wood)};for(let l of[i,t+n/2,u])d(l,f),d(l,h);for(let l of[f,r+o/2,h])d(i,l),d(u,l);m(i,f,u,f),m(i,h,t+n/2-.6,h),m(t+n/2+.6,h,u,h),m(i,f,i,h),m(u,f,u,h)}function Se(s,e,t){let{i:r,j:n,w:o,d:a,floor:i}=e;s.box(r,i,n,r+o,i+2,n+a,x.Plank);let u=r+o/2,f=n+a/2;for(let[h,d,m,l,b,g]of[[r+o,f-.3,r+o+.06,f+.3,r+o+.3,f],[r-.06,f-.3,r,f+.3,r-.3,f],[u-.3,n+a,u+.3,n+a+.06,u,n+a+.3],[u-.3,n-.06,u+.3,n,u,n-.3]])s.box(h,i+.7,d,m,i+1.35,l,x.Window),t.push(b,i+1.02,g);s.box(r-.4,i+2,n-.4,r+o+.4,i+2.45,n+a+.4,x.Roof),s.box(r+.3,i+2.45,n+.3,r+o-.3,i+2.9,n+a-.3,x.Roof),s.box(r+.95,i+2.9,n+.95,r+o-.95,i+3.3,n+a-.95,x.Roof),s.box(r+o-.9,i+2.4,n+.4,r+o-.4,i+3.7,n+.9,x.Stone)}function Lt(s,e,t){let r=s.createProgram();for(let[n,o]of[[s.VERTEX_SHADER,e],[s.FRAGMENT_SHADER,t]]){let a=s.createShader(n);if(s.shaderSource(a,o),s.compileShader(a),!s.getShaderParameter(a,s.COMPILE_STATUS)&&!s.isContextLost())throw new Error(`shader: ${s.getShaderInfoLog(a)}`);s.attachShader(r,a)}if(s.linkProgram(r),!s.getProgramParameter(r,s.LINK_STATUS)&&!s.isContextLost())throw new Error(`program: ${s.getProgramInfoLog(r)}`);return r}var J=s=>{let e=Y(s);return[e[0]/255,e[1]/255,e[2]/255]},Ee=s=>{let e=Math.hypot(s[0],s[1],s[2])||1;return[s[0]/e,s[1]/e,s[2]/e]};function ke(s,e,t,r){let n=1/Math.tan(s/2),o=new Float32Array(16);return o[0]=n/e,o[5]=n,o[10]=(r+t)/(t-r),o[11]=-1,o[14]=2*r*t/(t-r),o}function Fe(s,e,t,r){let n=new Float32Array(16);return n[0]=r[0],n[4]=r[1],n[8]=r[2],n[12]=-(r[0]*s[0]+r[1]*s[1]+r[2]*s[2]),n[1]=t[0],n[5]=t[1],n[9]=t[2],n[13]=-(t[0]*s[0]+t[1]*s[1]+t[2]*s[2]),n[2]=-e[0],n[6]=-e[1],n[10]=-e[2],n[14]=e[0]*s[0]+e[1]*s[1]+e[2]*s[2],n[15]=1,n}function Pe(s,e){let t=new Float32Array(16);for(let r=0;r<4;r++)for(let n=0;n<4;n++){let o=0;for(let a=0;a<4;a++)o+=s[a*4+n]*e[r*4+a];t[r*4+n]=o}return t}function Le(s){let e=i=>[s[i],s[4+i],s[8+i],s[12+i]],[t,r,n,o]=[e(0),e(1),e(2),e(3)],a=(i,u,f)=>i.map((h,d)=>h+f*u[d]);return[a(o,t,1),a(o,t,-1),a(o,r,1),a(o,r,-1),a(o,n,1),a(o,n,-1)]}function Te(s,e,t){for(let[r,n,o,a]of s){let i=r>0?t[0]:e[0],u=n>0?t[1]:e[1],f=o>0?t[2]:e[2];if(r*i+n*u+o*f+a<0)return!1}return!0}var Ce=s=>({top:Y(s.top),left:Y(s.left),right:Y(s.right)}),pt=class{constructor(e){this.canvas=e;let t=e.getContext("2d",{alpha:!1});if(!t)throw new Error("2D canvas unavailable");this.g=t}canvas;g;size={w:0,h:0,dpr:1};palette=null;drawnFor="";resize(e,t,r){this.size={w:e,h:t,dpr:r},this.canvas.width=Math.round(e*r),this.canvas.height=Math.round(t*r),this.drawnFor=""}setPalette(e){e!==this.palette&&(this.drawnFor=""),this.palette=e}draw(e){let t=this.palette,{w:r,h:n,dpr:o}=this.size;if(!t||!r)return;let a=`${r}x${n}@${o}`;if(a===this.drawnFor)return;this.drawnFor=a;let i=this.g,u=this.canvas.width,f=this.canvas.height;i.setTransform(1,0,0,1,0,0);let h=i.createLinearGradient(0,0,0,f);h.addColorStop(0,bt(Y(t.zenith))),h.addColorStop(.7,bt(Y(t.horizon))),h.addColorStop(1,bt(Y(t.fog))),i.fillStyle=h,i.fillRect(0,0,u,f);let d=Math.max(2,2*Math.round(Math.min(r*.94/(2*E),n*.6/E)*o/2)),m={S:d,HZ:d,ox:Math.round(u/2),oy:Math.round(f*.58-E*d/2)},l=t.mats.map(Ce),b=(_,w=1)=>St(d,d,[0,0,0,1,1,w],A=>A.box(0,0,0,1,1,w,_)),g=[];g[x.Grass]=b(Pt(l[x.Grass],l[x.Dirt],1)),g[x.Sand]=b(G(l[x.Sand],2)),g[x.Stone]=b(G(l[x.Stone],3,.28)),g[x.Snow]=b(Pt(l[x.Snow],l[x.Stone],4));let v=b(G(l[x.Dirt],5)),c=b(G(l[x.Stone],6,.28)),p=b(qt(l[x.Water],7),.85),M=St(d,d,[0,0,0,1,1,1],_=>_.box(.25,.25,0,.75,.75,1,Xt(l[x.Wood],8))),y=b(G(l[x.Leaves],9,.3)),k=b(G(l[x.Pine],10,.3)),R=b(G(l[x.Plank],11,.1)),F=b(G(l[x.Roof],12,.1)),C=new Map;for(let _ of e.land.houses)for(let w=0;w<_.d;w++)for(let A=0;A<_.w;A++)C.set(S(_.i+A,_.j+w),_);let V=(_,w)=>O(_,w)?e.land.height[S(_,w)]:-1,B=new Map(e.land.trees.map(_=>[S(_.i,_.j),_]));for(let _=0;_<E*2-1;_++)for(let w=Math.max(0,_-E+1);w<=Math.min(_,E-1);w++){let A=_-w,z=V(w,A),tt=e.land.top[S(w,A)],xt=Math.min(z-1,Math.max(0,Math.min(V(w+1,A),V(w,A+1))-1));for(let D=Math.max(0,xt);D<z;D++){let W=D===z-1?g[tt]??g[x.Grass]:z-D>3||tt===x.Stone||tt===x.Snow?c:v;i.drawImage(W.canvas,Math.round(H(m,w,A)+W.dx),Math.round(q(m,w,A,D)+W.dy))}let Dt=e.land.water[S(w,A)];if(Dt&&i.drawImage(p.canvas,Math.round(H(m,w,A)+p.dx),Math.round(q(m,w,A,Dt-1)+p.dy)),C.has(S(w,A)))for(let[D,W]of[[z,R],[z+1,R],[z+2,F]])i.drawImage(W.canvas,Math.round(H(m,w,A)+W.dx),Math.round(q(m,w,A,D)+W.dy));let ot=B.get(S(w,A));if(!ot)continue;for(let D=0;D<ot.trunk;D++)i.drawImage(M.canvas,Math.round(H(m,w,A)+M.dx),Math.round(q(m,w,A,z+D)+M.dy));let Jt=Tt(ot.pine,ot.trunk).sort((D,W)=>D[0]+D[2]-(W[0]+W[2])||D[1]-W[1]);for(let[D,W,It]of Jt){let vt=ot.pine?k:y;i.drawImage(vt.canvas,Math.round(H(m,w+D,A+It)+vt.dx),Math.round(q(m,w+D,A+It,z+W)+vt.dy))}}}};var Z=(s,e,t)=>({top:s,left:e,right:t}),P=(s,e,t,r)=>({top:[s,e,t],left:[s-r,e,t],right:[s-r*2,e*.92,t+8]});function Kt(s){let e=[];for(let[t,r]of Object.entries(x))e[r]=s[t];if(e.length!==it||e.some(t=>!t))throw new Error("every material needs its colours");return e}var Ct={light:{mats:Kt({Grass:P(.9,.12,132,.045),Dirt:P(.88,.05,68,.035),Stone:P(.88,.012,255,.035),Sand:P(.93,.05,92,.035),Snow:P(.985,.008,250,.035),Water:P(.86,.07,222,.025),Wood:P(.88,.045,62,.035),Leaves:P(.89,.12,145,.04),Pine:P(.87,.09,170,.03),Cloud:P(.99,.004,240,.02),Bird:P(.75,.045,238,.01),Plank:P(.92,.05,75,.035),Roof:P(.88,.09,30,.035),Window:P(.9,.04,230,.02),Soil:P(.87,.05,60,.03),Crop:P(.93,.11,92,.035)}),zenith:[.78,.09,240],horizon:[.93,.035,225],fog:[.93,.035,225],fogDistance:120,sun:{dir:[.62,.24,-.72],disc:[.99,.05,95],glow:[.995,.025,95],alpha:.55},stars:!1,glint:[.99,.02,95],lights:null},dark:{mats:Kt({Grass:Z([.42,.06,170],[.34,.065,155],[.28,.055,160]),Dirt:Z([.37,.035,60],[.31,.035,55],[.25,.03,50]),Stone:Z([.35,.012,255],[.29,.012,265],[.24,.012,270]),Sand:Z([.41,.03,95],[.35,.035,85],[.29,.03,80]),Snow:Z([.43,.025,245],[.38,.025,250],[.32,.025,260]),Water:P(.33,.065,250,.035),Wood:P(.36,.04,55,.045),Leaves:Z([.4,.06,172],[.32,.065,158],[.26,.055,165]),Pine:Z([.38,.05,185],[.31,.055,175],[.25,.045,180]),Cloud:P(.38,.03,275,.03),Bird:P(.38,.02,270,.02),Plank:P(.38,.04,70,.045),Roof:P(.36,.07,28,.045),Window:P(.86,.13,80,.02),Soil:Z([.34,.03,55],[.28,.03,50],[.23,.025,45]),Crop:Z([.42,.05,100],[.35,.05,95],[.29,.045,90])}),zenith:[.15,.045,268],horizon:[.29,.06,288],fog:[.29,.06,288],fogDistance:105,sun:{dir:[.42,.2,-.86],disc:[.93,.035,95],glow:[.55,.06,270],alpha:.35},stars:!0,glint:[.88,.03,250],lights:[.8,.12,70]}};var gt=class{constructor(e){this.makeCanvas=e;this.canvas=e();try{this.gl=new dt(this.canvas,()=>this.fallBack()),this.gl.setPalette(this.palette)}catch{this.fallBack()}}makeCanvas;canvas;gl=null;still=null;built=!1;size={w:0,h:0,dpr:1};palette=Ct.dark;last=null;fallBack(){this.still||(this.gl=null,this.canvas.remove(),this.canvas=this.makeCanvas(),this.still=new pt(this.canvas),this.still.setPalette(this.palette),this.size.w&&this.still.resize(this.size.w,this.size.h,this.size.dpr),this.last&&this.still.draw(this.last))}get mode(){return this.gl&&!this.gl.lost?"gl":"still"}resize(e,t,r){this.size={w:e,h:t,dpr:r},this.gl?this.gl.resize(Math.round(e*r),Math.round(t*r),e,t):this.still?.resize(e,t,r)}setLook(e){this.palette=Ct[e.dark?"dark":"light"],this.gl?.setPalette(this.palette),this.still?.setPalette(this.palette)}draw(e){this.last=e,this.gl?(this.built||(this.gl.build(e.land),this.built=!0),this.gl.draw(e)):this.still?.draw(e)}};await Bt(new mt,()=>new gt(zt));

diff --git a/packages/blocks/src/valley/gl.ts b/packages/blocks/src/valley/gl.ts
@@ -575,8 +575,8 @@ export class ValleyGL {
       };
       // A small V: each wing two thin pieces, rising toward its tip and beating a little.
       for (const side of [-1, 1]) {
-        piece(-0.04, side * 0.16, 0.05 + at.wing * 0.03, 0.05, 0.16, 0.025);
-        piece(-0.1, side * 0.44, 0.15 + at.wing * 0.1, 0.04, 0.14, 0.022);
+        piece(-0.04, side * 0.16, 0.05 + at.wing * 0.03, 0.035, 0.16, 0.014);
+        piece(-0.1, side * 0.44, 0.15 + at.wing * 0.1, 0.028, 0.14, 0.012);
       }
     }
     for (const d of v.drops) mesh.box(d.i, d.y, d.j, d.i + 1, d.y + 1, d.j + 1, d.mat, d.y + 1);

diff --git a/packages/blocks/src/valley/palette.ts b/packages/blocks/src/valley/palette.ts
@@ -61,7 +61,7 @@ export const VALLEY_PALETTE: { light: ValleyPalette; dark: ValleyPalette } = {
       Leaves: faces(0.89, 0.12, 145, 0.04),
       Pine: faces(0.87, 0.09, 170, 0.03),
       Cloud: faces(0.99, 0.004, 240, 0.02),
-      Bird: faces(0.64, 0.025, 245, 0.02),
+      Bird: faces(0.75, 0.045, 238, 0.01),
       Plank: faces(0.92, 0.05, 75, 0.035),
       Roof: faces(0.88, 0.09, 30, 0.035),
       Window: faces(0.9, 0.04, 230, 0.02),
